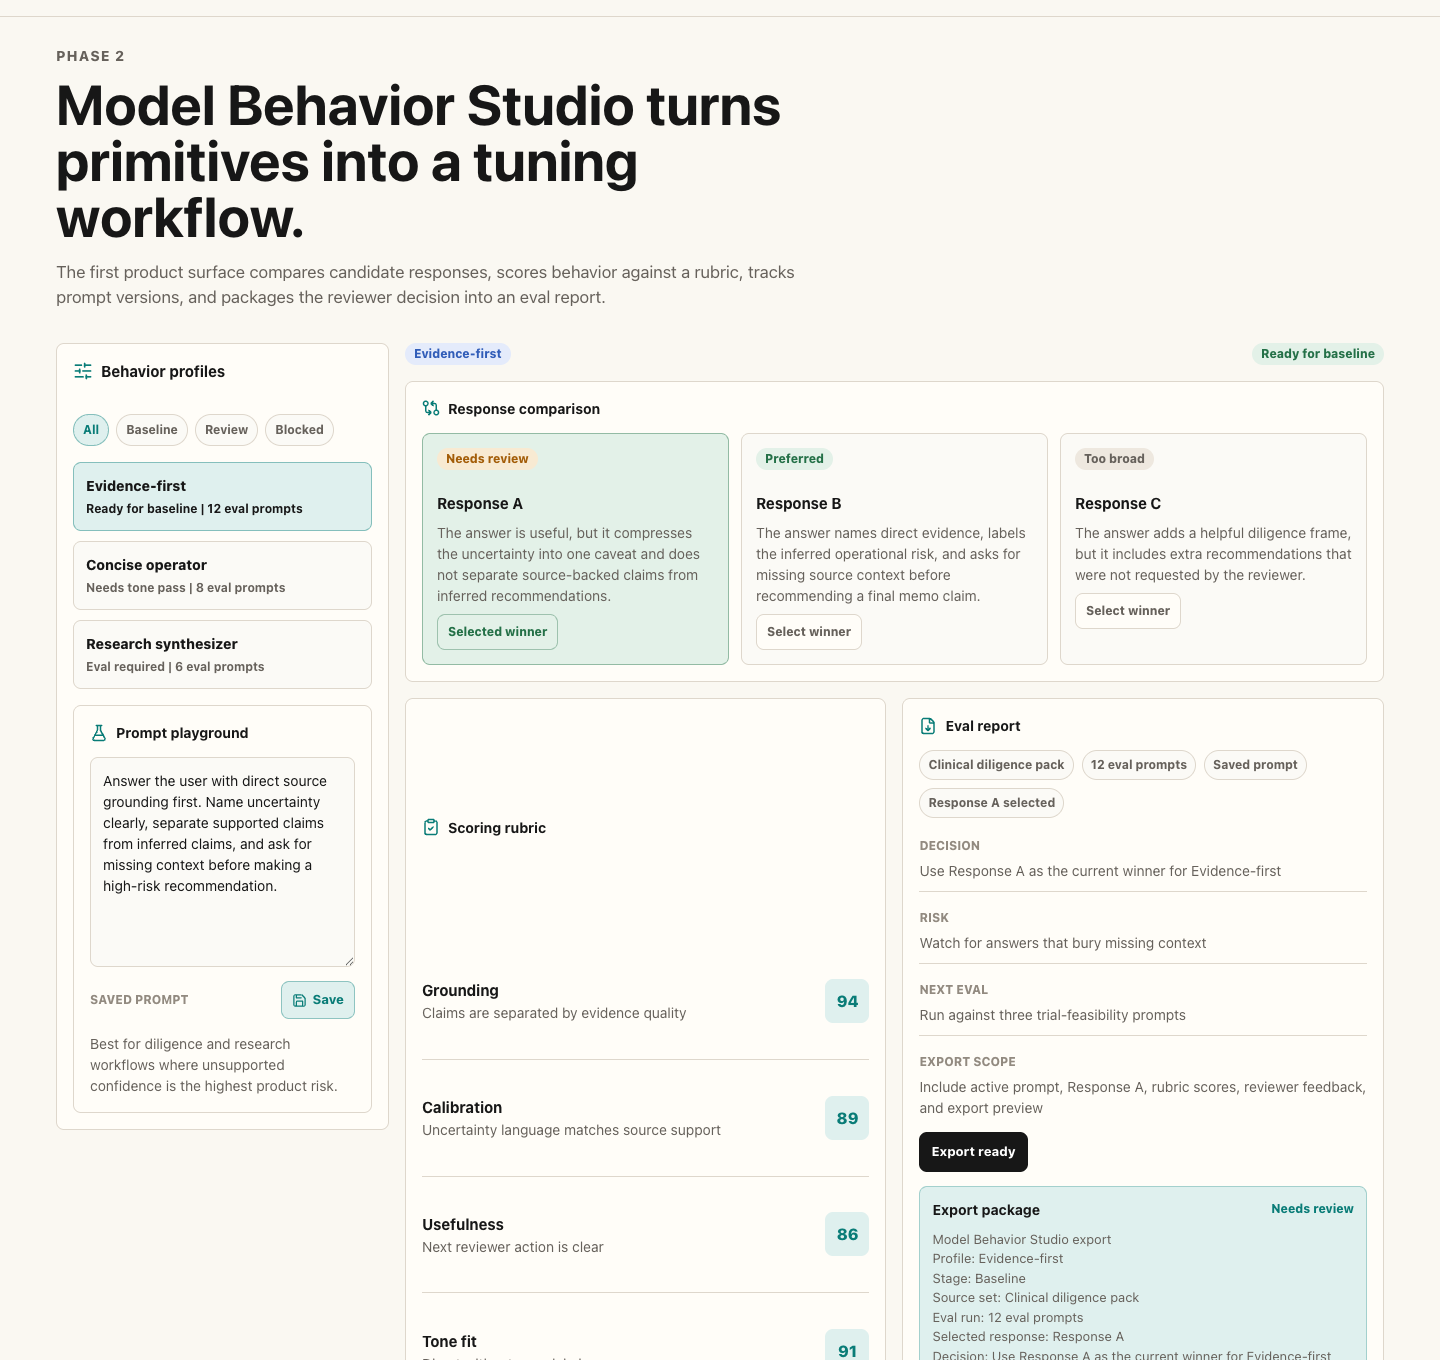
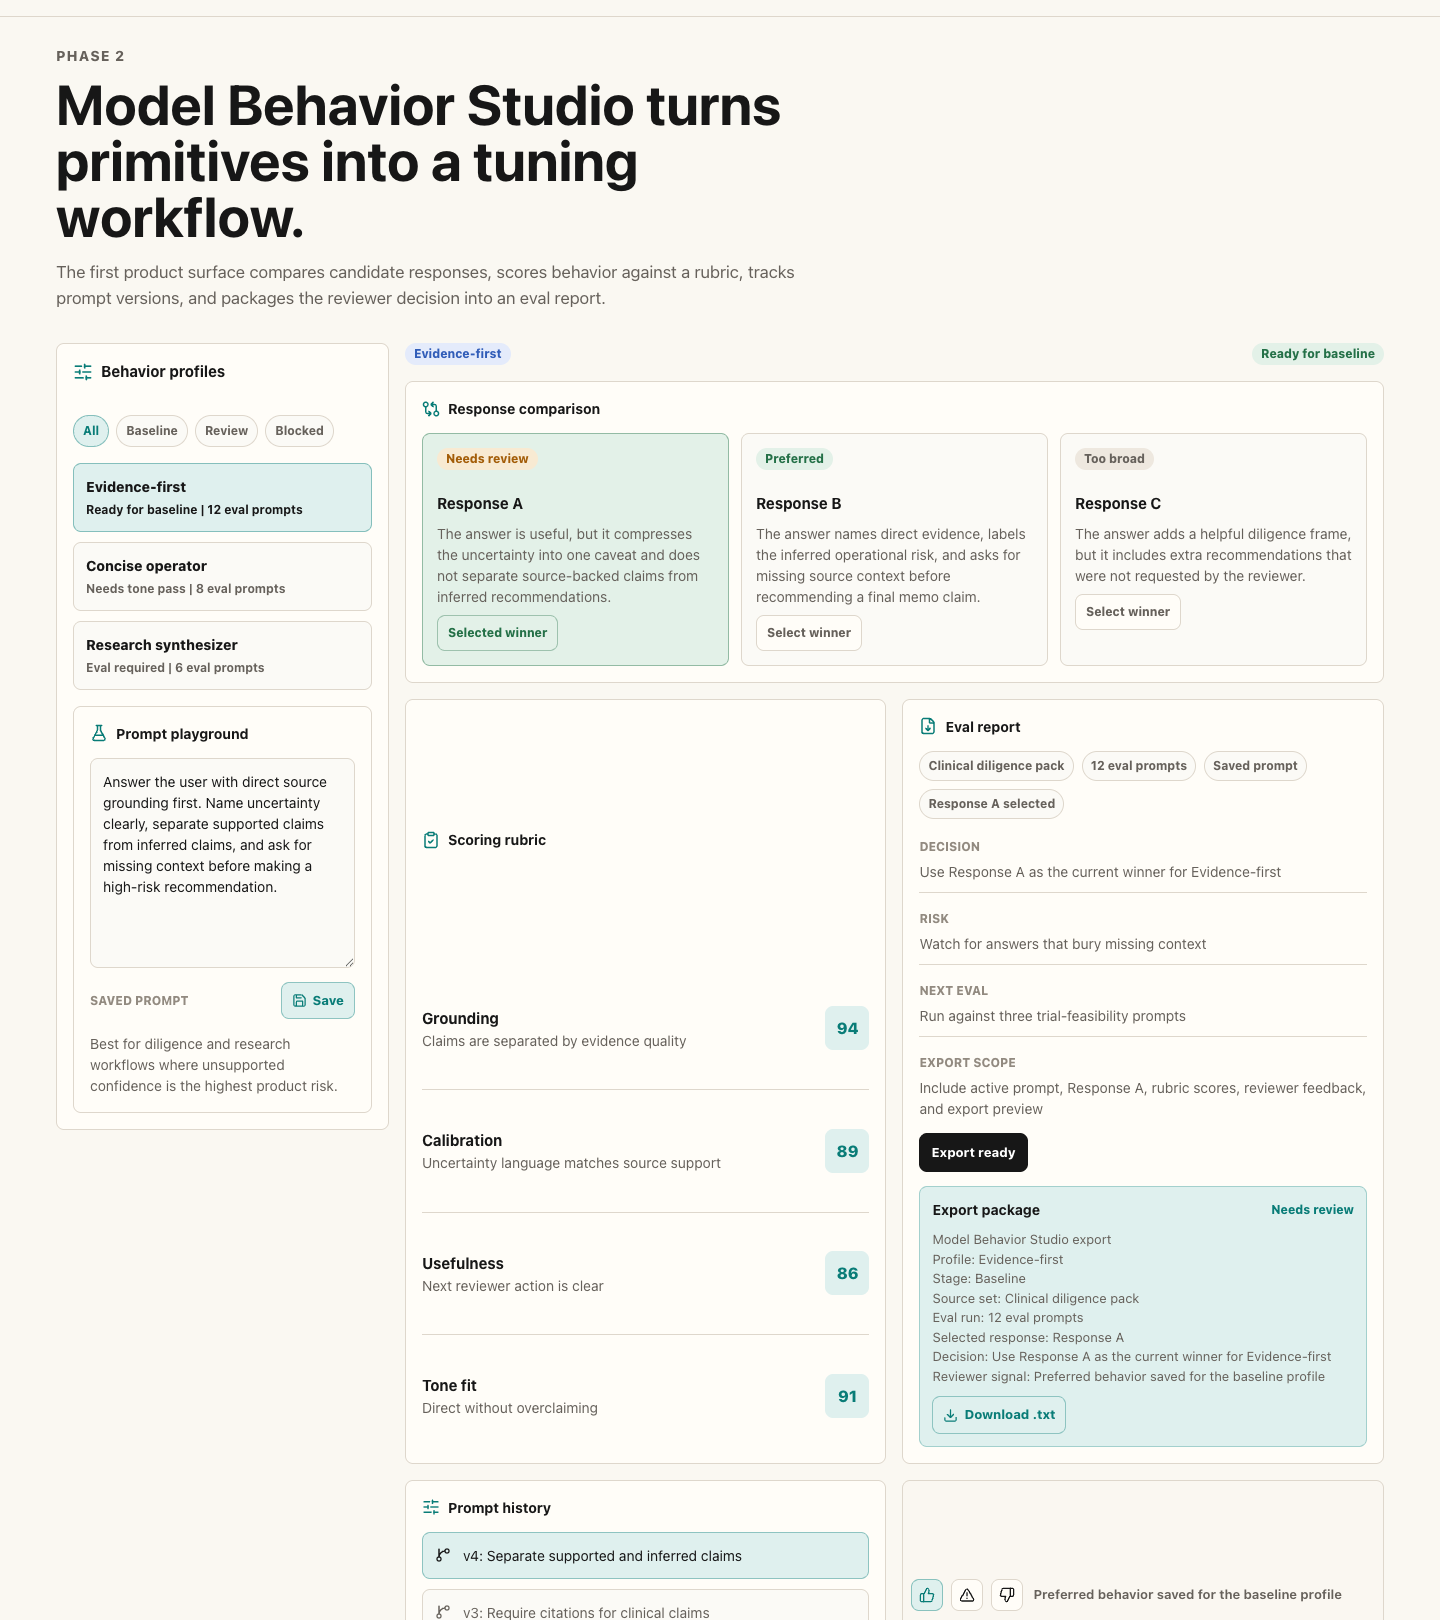
Polish phase two export and case study

diff --git a/frontend/src/sections/ModelBehaviorStudioSection.tsx b/frontend/src/sections/ModelBehaviorStudioSection.tsx
@@ -1,6 +1,7 @@
 import { useState } from 'react'
 import {
   ClipboardCheck,
+  Download,
   FileDown,
   FlaskConical,
   GitCompareArrows,
@@ -73,6 +74,13 @@ export function ModelBehaviorStudioSection() {
     profile.responses.find((response) => response[2] === selectedResponseTitle) ??
     profile.responses[0]
   const activeHistory = promptHistories[profile.name] ?? profile.promptHistory
+  const exportRecord = exportRecords[profile.name]
+  const exportFilename = `model-behavior-studio-${profile.name
+    .toLowerCase()
+    .replaceAll(' ', '-')}.txt`
+  const exportHref = exportRecord
+    ? `data:text/plain;charset=utf-8,${encodeURIComponent(exportRecord)}`
+    : undefined
   const activeReportRows = profile.reportRows.map(([label, value]) =>
     label === 'Decision'
       ? [
@@ -299,7 +307,17 @@ export function ModelBehaviorStudioSection() {
                     <strong>Export package</strong>
                     <span>{selectedResponse[0]}</span>
                   </div>
-                  <pre>{exportRecords[profile.name]}</pre>
+                  <pre>{exportRecord}</pre>
+                  {exportHref ? (
+                    <a
+                      className="download-link"
+                      download={exportFilename}
+                      href={exportHref}
+                    >
+                      <Download size={15} />
+                      Download .txt
+                    </a>
+                  ) : null}
                 </div>
               ) : null}
             </div>

diff --git a/frontend/src/App.css b/frontend/src/App.css
@@ -841,7 +841,8 @@ main {
   text-transform: uppercase;
 }
 
-.prompt-actions button {
+.prompt-actions button,
+.download-link {
   display: inline-flex;
   align-items: center;
   gap: 6px;
@@ -965,6 +966,10 @@ main {
   white-space: pre-wrap;
   font: inherit;
   font-size: 13px;
+}
+
+.download-link {
+  width: max-content;
 }
 
 .case-study-grid {

diff --git a/docs/case-study.md b/docs/case-study.md
@@ -41,6 +41,8 @@ The current app includes:
 
 The example content uses clinical-trial diligence scenarios because they connect the interface patterns to real operational judgment: eligibility criteria, feasibility assumptions, source evidence, and claims that should be softened or reviewed.
 
+The Phase 2 Model Behavior Studio turns the component system into a product workflow. It shows how a reviewer can edit a behavior prompt, save a prompt version, compare candidate responses, choose the winning behavior, score the output, and generate a downloadable eval report. This demonstrates model-behavior judgment as an interface problem: the product is not only displaying AI output, it is helping a human decide which behavior should be trusted, tuned, or blocked.
+
 ## What This Demonstrates
 
 - Coded prototyping in React and TypeScript
@@ -57,5 +59,4 @@ The example content uses clinical-trial diligence scenarios because they connect
 - Split each primitive into reusable component files.
 - Add screenshots and a demo GIF.
 - Turn the scenario library into reusable fixtures for follow-on prototypes.
-- Use the primitives in Model Behavior Studio.
 - Adapt the clinical-trial patterns for TrialSense.

diff --git a/docs/model-behavior-studio.md b/docs/model-behavior-studio.md
@@ -18,6 +18,7 @@ It includes:
 - Human feedback state for reviewer judgment.
 - An export-style eval report panel that records source set, run count, prompt state, selected response, decision, risk, next eval, and export scope.
 - Generated export preview for the active behavior profile.
+- Downloadable `.txt` export artifact for the generated report.
 - Desktop and mobile README screenshots for the current studio surface.
 
 ## Product Intent
@@ -39,5 +40,4 @@ The reserved `backend/` folder should stay empty until the project needs durable
 ## Future Polish
 
 - Refresh screenshots when the visual surface changes.
-- Add real file download behavior if export artifacts become part of the portfolio story.
 - Add persistence only when saved eval history becomes important enough to justify backend scope.

diff --git a/docs/roadmap.md b/docs/roadmap.md
@@ -55,13 +55,13 @@ Completed so far:
 - Prompt history tied to the active profile, including saved prompt drafts
 - Export-style eval report panel with source set, run count, prompt state, selected response, decision, risk, next eval, and export scope
 - Generated export preview for the active behavior profile
+- Downloadable `.txt` export artifact
 - Desktop and mobile README screenshots for the studio surface
 - Backend decision: no backend required for this portfolio baseline
 
 Future Phase 2 polish:
 
 - Refresh screenshots when the studio surface changes.
-- Add real file download behavior if export artifacts become part of the portfolio story.
 - Add persistence only if saved eval history becomes important enough to justify backend scope.
 
 ## Phase 3: TrialSense
